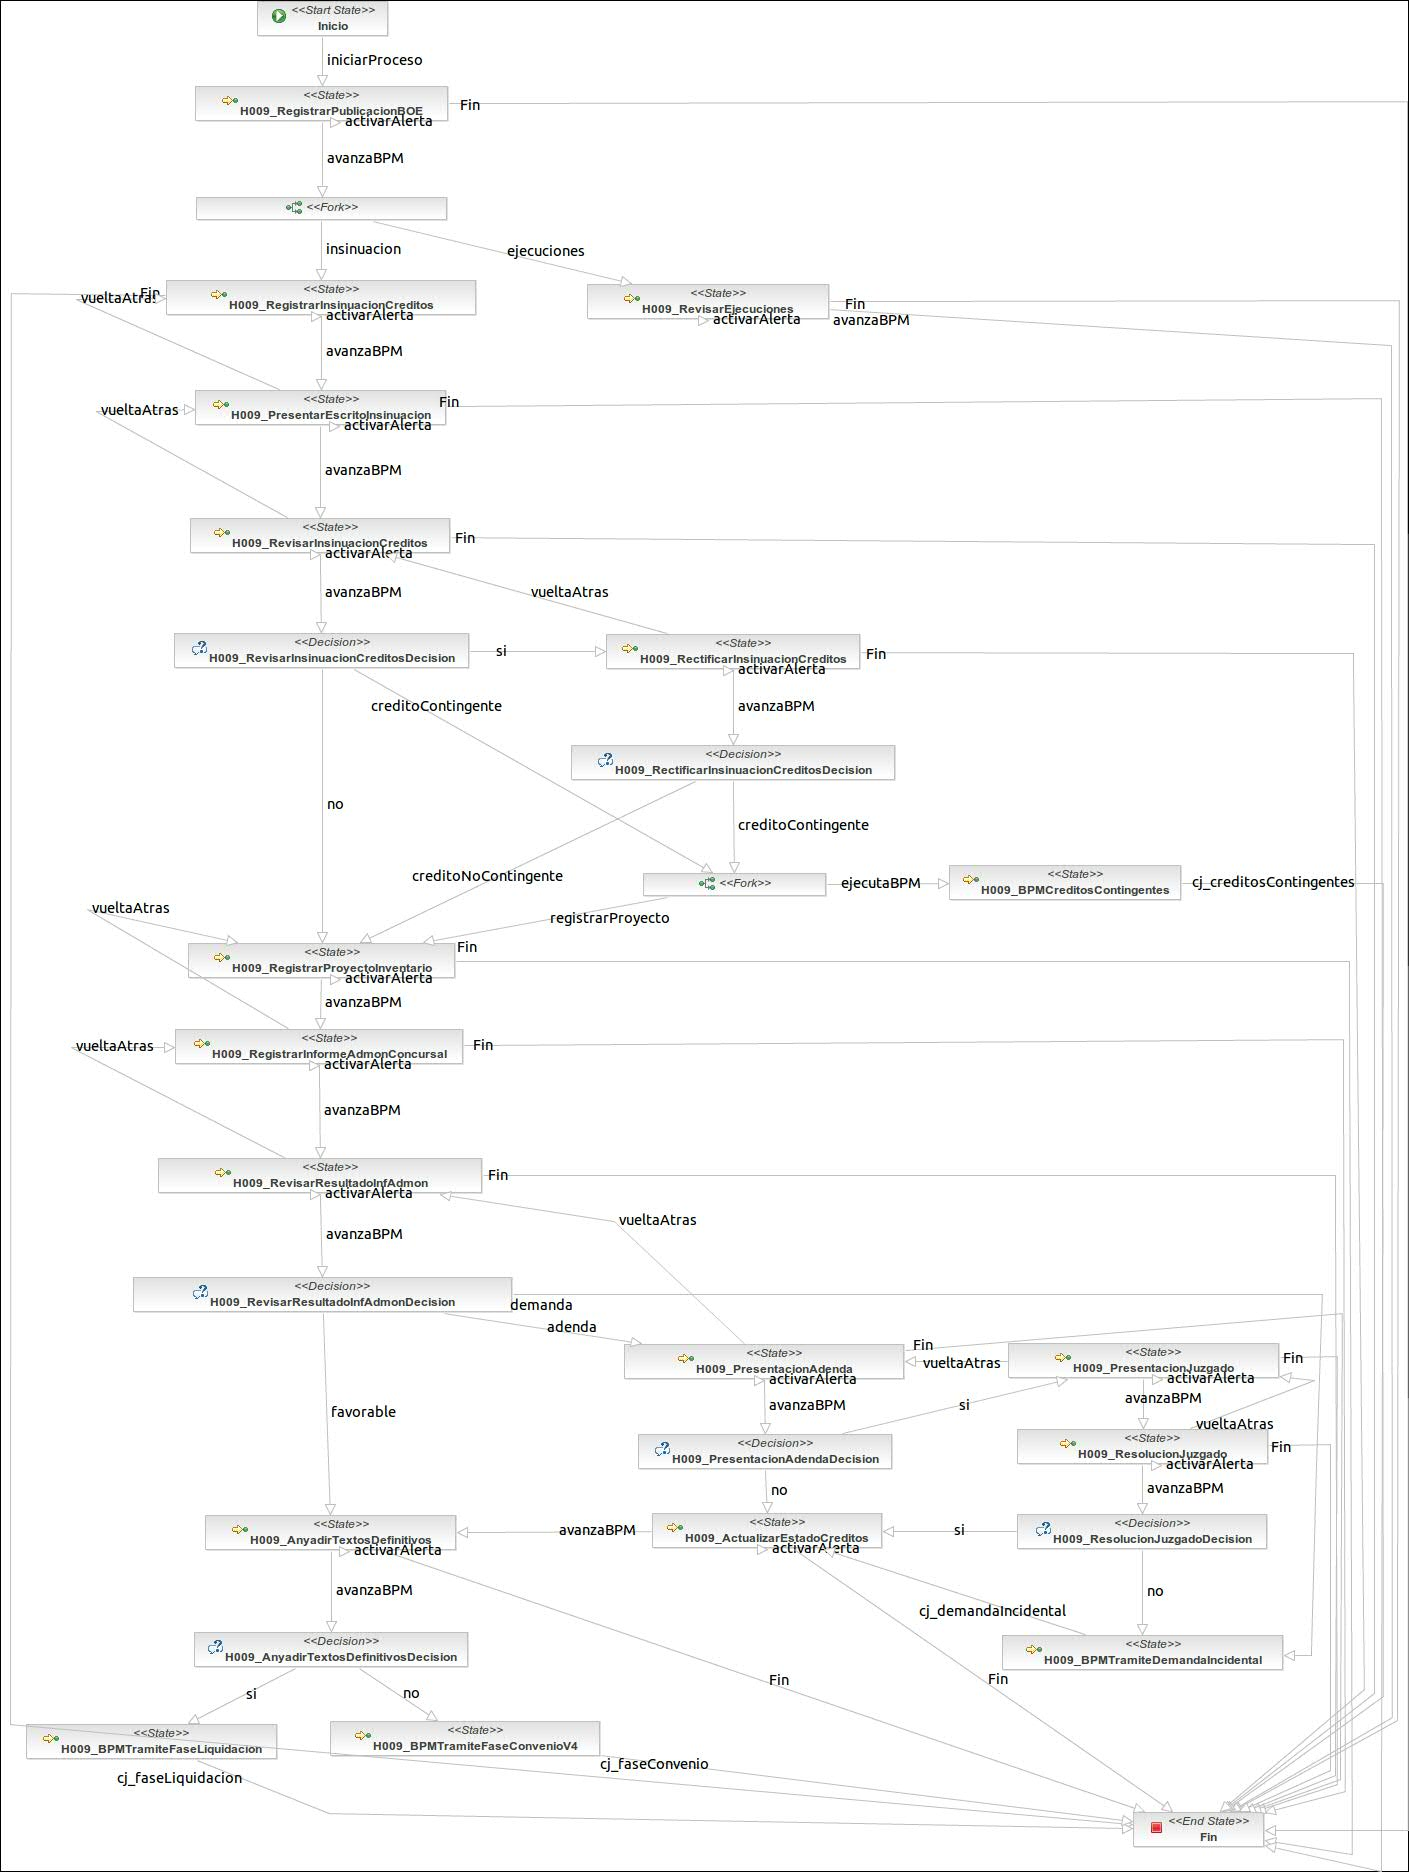
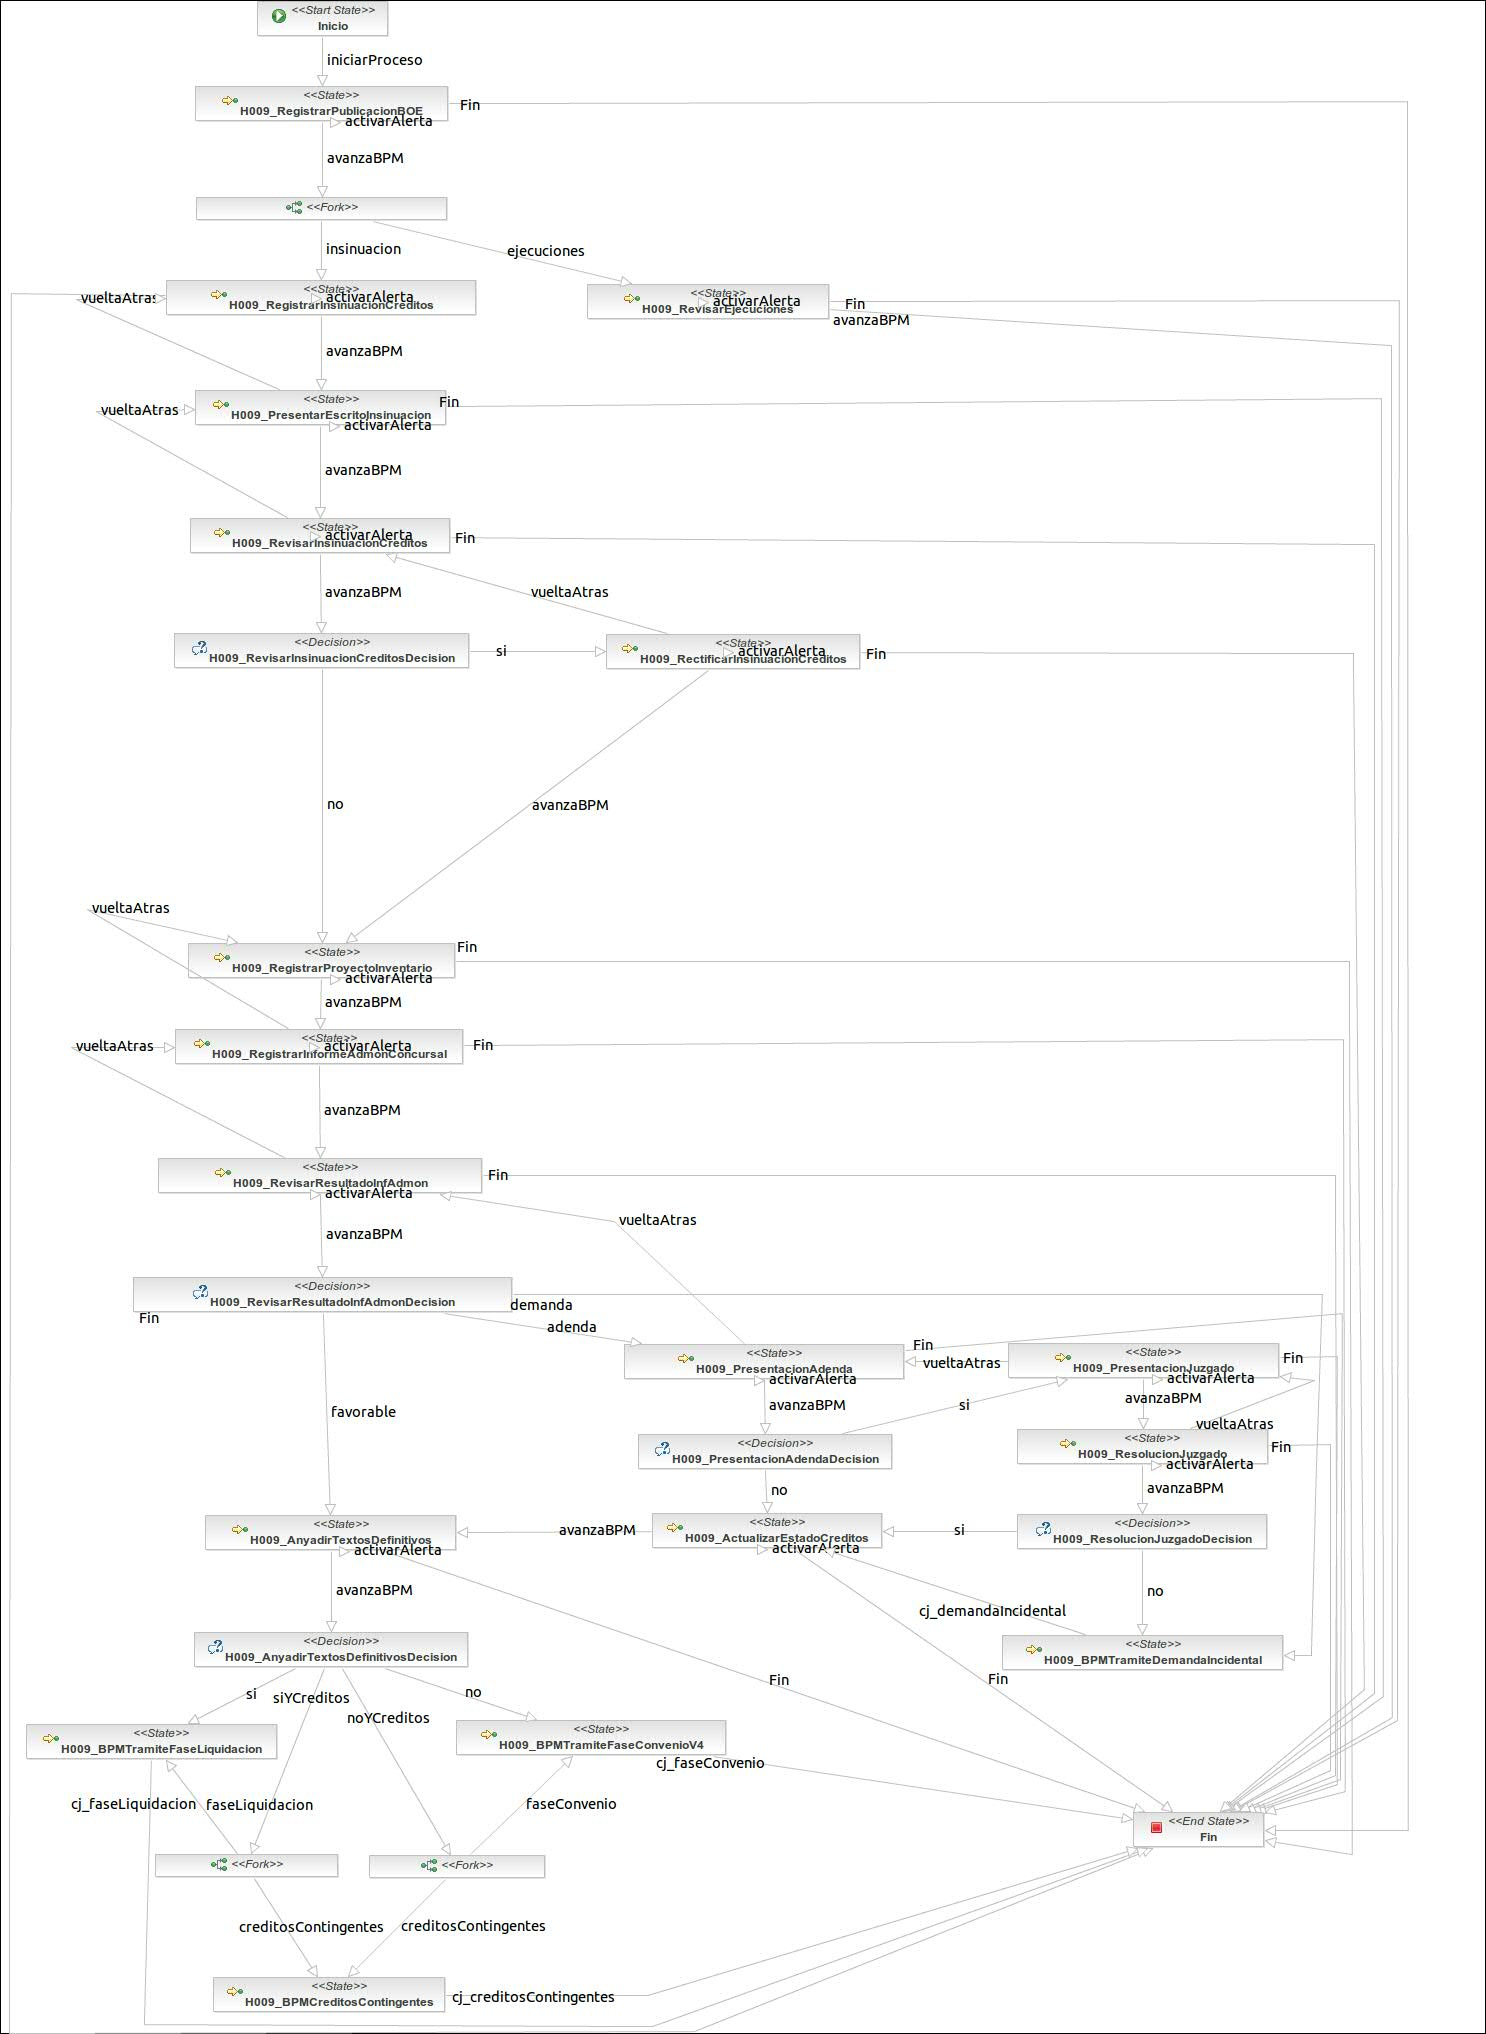
[CMREC-769] Se la lanza el trámite de créditos contingentes tras finalizar la tarea del trámite de fase común Añadir textos definitivos en caso de que existan créditos contingentes en estado reconocido.
Former-commit-id: 40942bf04e07410689b1c4c08ac3e44163d028e8

diff --git a/proyecto-cajamar/src/main/java/es/pfsgroup/recovery/cajamar/manager/BPMManager.java b/proyecto-cajamar/src/main/java/es/pfsgroup/recovery/cajamar/manager/BPMManager.java
@@ -93,7 +93,7 @@ public class BPMManager {
 		}	
 	}
 	
-	public boolean existenCreditosContingentes(Long idProcedimiento) 
+	public boolean existenCreditosContingentesReconocidos(Long idProcedimiento) 
 	{
 		try {
 			boolean enc = false;
@@ -106,7 +106,8 @@ public class BPMManager {
 						if(contrato.getCreditos() != null) {
 							for (Credito credito : contrato.getCreditos()) {
 								
-								if(credito.getTipoDefinitivo() != null && credito.getTipoDefinitivo().getCodigo().equals("7")) {
+								if(credito.getTipoDefinitivo() != null && credito.getTipoDefinitivo().getCodigo().equals("7") 
+										&& credito.getEstadoCredito() != null && credito.getEstadoCredito().getCodigo().equals("2")) {
 									enc = true;
 									break;
 								}								
@@ -119,7 +120,7 @@ public class BPMManager {
 			return enc;	
 		}
 		catch(Exception e) {
-			logger.error("Error en el método existenCreditosContingentes de la clase BPMManager: " + e.getMessage());
+			logger.error("Error en el método existenCreditosContingentesReconocidos de la clase BPMManager: " + e.getMessage());
 			throw new FrameworkException(e); 
 		}
 	}
